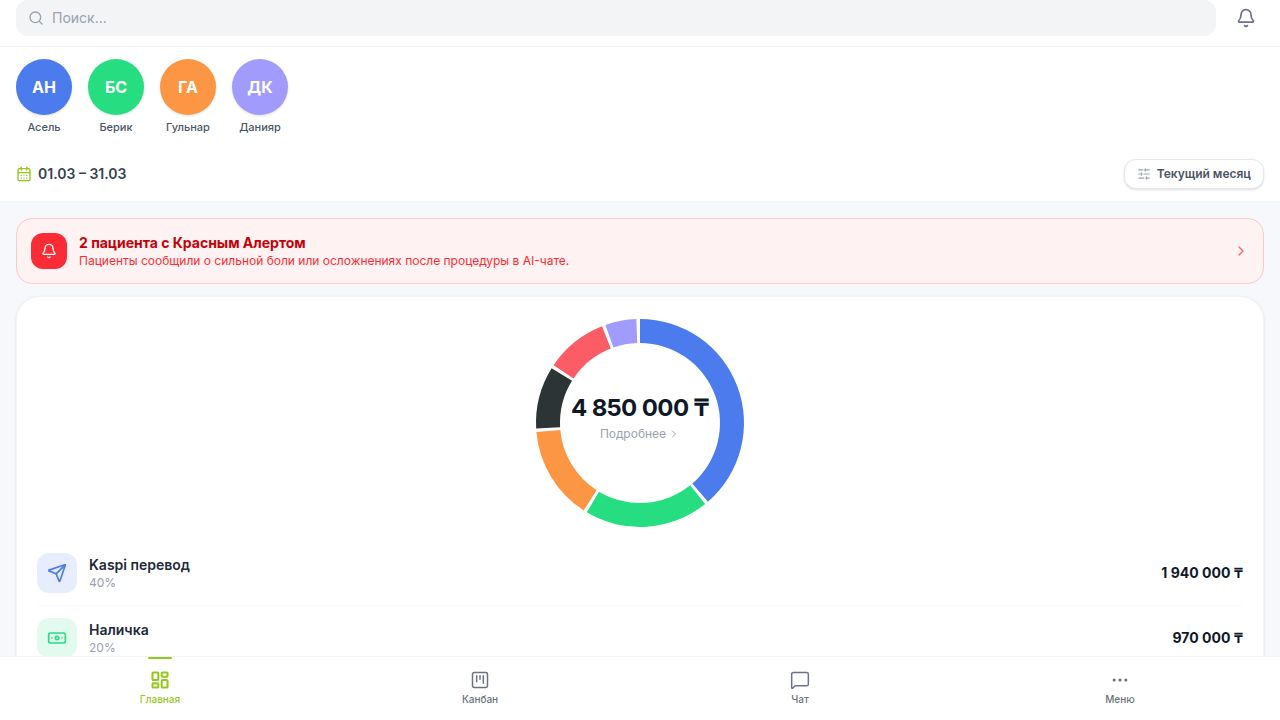
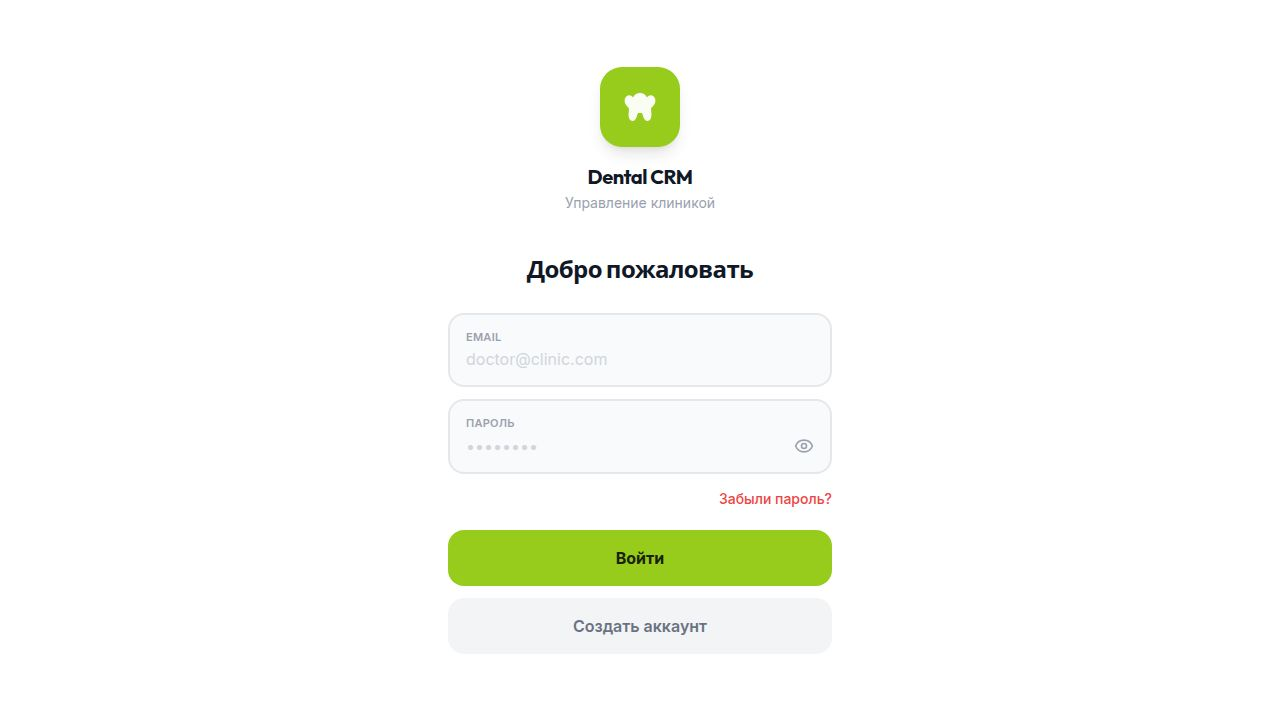
Fix user sessions not persisting and resolve theme display issues
Update API client to include credentials in requests and replace `next-themes` with a custom implementation.

Replit-Commit-Author: Agent
Replit-Commit-Session-Id: b07f9d40-e55a-4b88-8d10-b686e943b444
Replit-Commit-Checkpoint-Type: full_checkpoint
Replit-Commit-Event-Id: 3bf97ab0-c010-4ec9-ac1c-16149dfc327c
Replit-Commit-Screenshot-Url: https://storage.googleapis.com/screenshot-production-us-central1/59630e69-35af-4c59-bc90-e2604072c83d/b07f9d40-e55a-4b88-8d10-b686e943b444/DWzVy5u
Replit-Helium-Checkpoint-Created: true

diff --git a/artifacts/dental-crm/src/hooks/use-theme.tsx b/artifacts/dental-crm/src/hooks/use-theme.tsx
@@ -1,0 +1,67 @@
+import { createContext, useContext, useEffect, useState } from "react";
+
+type Theme = "light" | "dark" | "system";
+
+interface ThemeContextValue {
+  theme: Theme;
+  setTheme: (theme: Theme) => void;
+  resolvedTheme: "light" | "dark";
+}
+
+const ThemeContext = createContext<ThemeContextValue | null>(null);
+
+function getSystemTheme(): "light" | "dark" {
+  if (typeof window === "undefined") return "light";
+  return window.matchMedia("(prefers-color-scheme: dark)").matches ? "dark" : "light";
+}
+
+function applyTheme(resolved: "light" | "dark") {
+  const root = document.documentElement;
+  root.classList.remove("light", "dark");
+  root.classList.add(resolved);
+}
+
+export function ThemeProvider({ children }: { children: React.ReactNode }) {
+  const [theme, setThemeState] = useState<Theme>(() => {
+    try {
+      return (localStorage.getItem("theme") as Theme) ?? "system";
+    } catch {
+      return "system";
+    }
+  });
+
+  const resolvedTheme: "light" | "dark" =
+    theme === "system" ? getSystemTheme() : theme;
+
+  useEffect(() => {
+    applyTheme(resolvedTheme);
+  }, [resolvedTheme]);
+
+  useEffect(() => {
+    if (theme !== "system") return;
+    const mq = window.matchMedia("(prefers-color-scheme: dark)");
+    const handler = () => applyTheme(getSystemTheme());
+    mq.addEventListener("change", handler);
+    return () => mq.removeEventListener("change", handler);
+  }, [theme]);
+
+  function setTheme(next: Theme) {
+    setThemeState(next);
+    try {
+      localStorage.setItem("theme", next);
+    } catch {
+    }
+  }
+
+  return (
+    <ThemeContext.Provider value={{ theme, setTheme, resolvedTheme }}>
+      {children}
+    </ThemeContext.Provider>
+  );
+}
+
+export function useTheme(): ThemeContextValue {
+  const ctx = useContext(ThemeContext);
+  if (!ctx) throw new Error("useTheme must be used inside ThemeProvider");
+  return ctx;
+}

diff --git a/artifacts/dental-crm/src/main.tsx b/artifacts/dental-crm/src/main.tsx
@@ -1,11 +1,11 @@
 import { createRoot } from "react-dom/client";
-import { ThemeProvider } from "next-themes";
+import { ThemeProvider } from "@/hooks/use-theme";
 import App from "./App";
 import "./index.css";
 import "./lib/i18n";
 
 createRoot(document.getElementById("root")!).render(
-  <ThemeProvider attribute="class" defaultTheme="system" enableSystem>
+  <ThemeProvider>
     <App />
   </ThemeProvider>,
 );

diff --git a/artifacts/dental-crm/src/pages/settings.tsx b/artifacts/dental-crm/src/pages/settings.tsx
@@ -1,5 +1,5 @@
 import { useState } from "react";
-import { useTheme } from "next-themes";
+import { useTheme } from "@/hooks/use-theme";
 import { useTranslation } from "react-i18next";
 import { useAuthStore } from "@/hooks/use-auth";
 import { useChangePassword } from "@workspace/api-client-react";

diff --git a/lib/api-client-react/src/custom-fetch.ts b/lib/api-client-react/src/custom-fetch.ts
@@ -372,7 +372,7 @@ export async function customFetch<T = unknown>(
 
   const requestInfo = { method, url: resolveUrl(input) };
 
-  const response = await fetch(input, { ...init, method, headers });
+  const response = await fetch(input, { ...init, method, headers, credentials: "include" });
 
   if (!response.ok) {
     const errorData = await parseErrorBody(response, method);